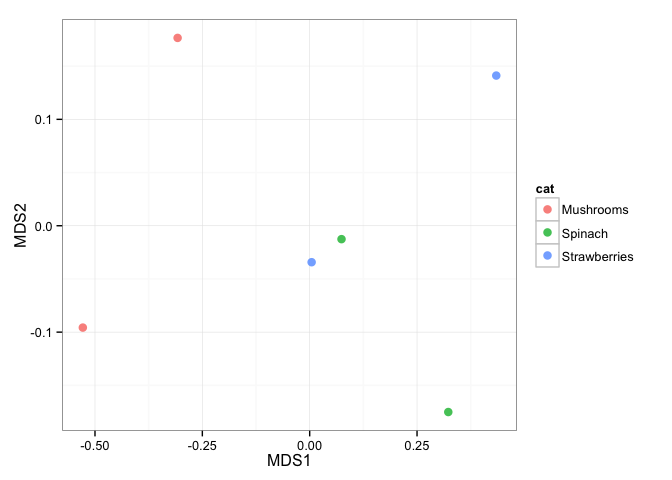
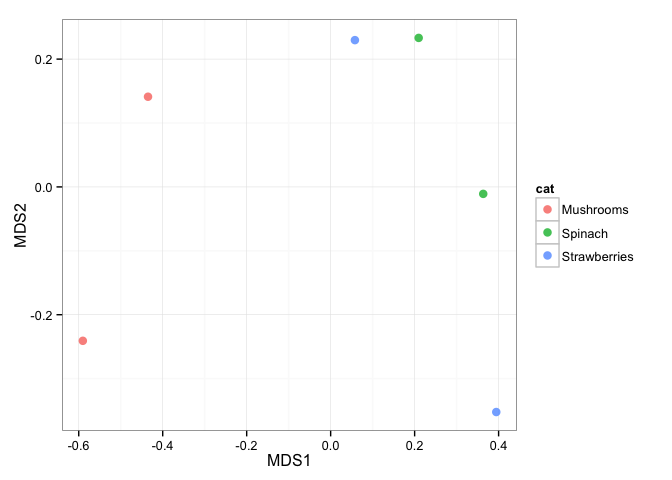
minor fixes

diff --git a/mctoolsr_examples.md b/mctoolsr_examples.md
@@ -12,11 +12,9 @@ To use:
 
 1. [Install git](https://git-scm.com/book/en/v2/Getting-Started-Installing-Git) if you haven't already
 2. Open a terminal window and clone **mctoolsr** in a directory where you keep software on your machine
-
 ```
 git clone https://github.com/leffj/mctoolsr.git
 ```
-
 3. When using **mctoolsr** in an R script, source the "routine_analysis_functions.R" file in the mctoolsr/R directory. For example, I include the following line at the top of all my R scripts using **mctoolsr**:
 
 
@@ -35,7 +33,7 @@ git pull
 
 ### Examples
 
-Note that the following examples use an example dataset taken from a study examining the bacterial communities associated with fruits and vegetables ([Leff et al. 2013][ref1]). You can find this dataset in the mctoolsr/examples directory.
+Note that the following examples use an example dataset taken from a study examining the bacterial communities associated with fruits and vegetables ([Leff et al. 2013][ref1]). You can find this dataset in the mctoolsr/examples directory.    
 
 
 #### Loading OTU tables and metadata
@@ -78,13 +76,13 @@ sort(colSums(input$data_loaded))
 ```
 
 ```
-## ProA37 ProB70 ProC66 ProB39 ProC40 ProB57 ProA12 ProC38 ProA58 ProB34
-##   1009   1011   1068   1152   1179   1192   1199   1211   1216   1265
-## ProC36 ProA65  ProB9 ProB60 ProC65 ProB35 ProB10 ProB67 ProA66 ProB36
-##   1313   1367   1371   1395   1409   1492   1599   1611   1614   1642
-## ProB71 ProB40 ProA36 ProB58 ProB33 ProA16 ProA35 ProA33 ProB12 ProA13
-##   1745   1771   1802   1860   2257   2312   2530   2585   2642   2819
-## ProA34 ProA15 ProA14
+## ProA37 ProB70 ProC66 ProB39 ProC40 ProB57 ProA12 ProC38 ProA58 ProB34 
+##   1009   1011   1068   1152   1179   1192   1199   1211   1216   1265 
+## ProC36 ProA65  ProB9 ProB60 ProC65 ProB35 ProB10 ProB67 ProA66 ProB36 
+##   1313   1367   1371   1395   1409   1492   1599   1611   1614   1642 
+## ProB71 ProB40 ProA36 ProB58 ProB33 ProA16 ProA35 ProA33 ProB12 ProA13 
+##   1745   1771   1802   1860   2257   2312   2530   2585   2642   2819 
+## ProA34 ProA15 ProA14 
 ##   2982   3291   3390
 ```
 
@@ -110,13 +108,13 @@ colSums(input_rar$data_loaded)
 ```
 
 ```
-## ProA12 ProA13 ProA14 ProA15 ProA16 ProA33 ProA34 ProA35 ProA36 ProA37
-##   1000   1000   1000   1000   1000   1000   1000   1000   1000   1000
-## ProA58 ProA65 ProA66 ProB10 ProB12 ProB33 ProB34 ProB35 ProB36 ProB39
-##   1000   1000   1000   1000   1000   1000   1000   1000   1000   1000
-## ProB40 ProB57 ProB58 ProB60 ProB67 ProB70 ProB71  ProB9 ProC36 ProC38
-##   1000   1000   1000   1000   1000   1000   1000   1000   1000   1000
-## ProC40 ProC65 ProC66
+## ProA12 ProA13 ProA14 ProA15 ProA16 ProA33 ProA34 ProA35 ProA36 ProA37 
+##   1000   1000   1000   1000   1000   1000   1000   1000   1000   1000 
+## ProA58 ProA65 ProA66 ProB10 ProB12 ProB33 ProB34 ProB35 ProB36 ProB39 
+##   1000   1000   1000   1000   1000   1000   1000   1000   1000   1000 
+## ProB40 ProB57 ProB58 ProB60 ProB67 ProB70 ProB71  ProB9 ProC36 ProC38 
+##   1000   1000   1000   1000   1000   1000   1000   1000   1000   1000 
+## ProC40 ProC65 ProC66 
 ##   1000   1000   1000
 ```
 
@@ -133,11 +131,11 @@ tax_sum_phyla[1:5, 1:8]
 
 ```
 ##                    ProA12 ProA13 ProA14 ProA15 ProA16 ProA33 ProA34 ProA35
-## p__[Thermi]         0.001   0.00  0.000  0.000  0.000  0.000  0.003  0.000
-## p__Acidobacteria    0.001   0.00  0.000  0.000  0.000  0.000  0.000  0.000
-## p__Actinobacteria   0.393   0.01  0.001  0.022  0.004  0.043  0.069  0.084
-## p__Armatimonadetes  0.000   0.00  0.000  0.003  0.000  0.000  0.000  0.000
-## p__Bacteroidetes    0.101   0.54  0.791  0.373  0.561  0.001  0.004  0.003
+## p__                 0.001  0.000  0.000  0.000  0.000  0.000  0.000   0.00
+## p__[Thermi]         0.001  0.000  0.000  0.000  0.000  0.000  0.001   0.00
+## p__Acidobacteria    0.000  0.000  0.000  0.000  0.000  0.000  0.000   0.00
+## p__Actinobacteria   0.393  0.009  0.002  0.015  0.004  0.054  0.065   0.09
+## p__Armatimonadetes  0.000  0.001  0.000  0.002  0.000  0.000  0.000   0.00
 ```
 
 
@@ -161,16 +159,29 @@ ord = calc_ordination(dm, 'nmds')
 ```
 
 ```
-## Run 0 stress 0.1159931
-## Run 1 stress 0.1474144
-## Run 2 stress 0.1508057
-## Run 3 stress 0.1406924
-## Run 4 stress 0.1397225
-## Run 5 stress 0.1163211
-## ... procrustes: rmse 0.008059515  max resid 0.03369261
-## Run 6 stress 0.115993
+## Run 0 stress 0.1183648 
+## Run 1 stress 0.1352601 
+## Run 2 stress 0.135261 
+## Run 3 stress 0.1393264 
+## Run 4 stress 0.1175868 
 ## ... New best solution
-## ... procrustes: rmse 0.0008747218  max resid 0.002771651
+## ... procrustes: rmse 0.007392492  max resid 0.03548635 
+## Run 5 stress 0.1422979 
+## Run 6 stress 0.1429678 
+## Run 7 stress 0.1183655 
+## Run 8 stress 0.1352602 
+## Run 9 stress 0.1578775 
+## Run 10 stress 0.1183647 
+## Run 11 stress 0.1393131 
+## Run 12 stress 0.139345 
+## Run 13 stress 0.1393148 
+## Run 14 stress 0.1603108 
+## Run 15 stress 0.1352605 
+## Run 16 stress 0.1480635 
+## Run 17 stress 0.139313 
+## Run 18 stress 0.1175852 
+## ... New best solution
+## ... procrustes: rmse 0.0004197089  max resid 0.00187101 
 ## *** Solution reached
 ```
 
@@ -181,23 +192,23 @@ plot_ordination(input_rar, ord, 'Sample_type', 'Farm_type', hulls = TRUE)
 ```
 ## Loading required package: ggplot2
 ## Loading required package: dplyr
-##
+## 
 ## Attaching package: 'dplyr'
-##
+## 
 ## The following object is masked from 'package:nlme':
-##
+## 
 ##     collapse
-##
+## 
 ## The following objects are masked from 'package:stats':
-##
+## 
 ##     filter, lag
-##
+## 
 ## The following objects are masked from 'package:base':
-##
+## 
 ##     intersect, setdiff, setequal, union
 ```
 
-![](mctoolsr_examples_files/figure-html/unnamed-chunk-7-1.png)
+![](mctoolsr_examples_files/figure-html/unnamed-chunk-7-1.png) 
 
 
 #### Filtering samples
@@ -212,12 +223,9 @@ ord = calc_ordination(dm, 'nmds')
 ```
 
 ```
-## Run 0 stress 0.105623
-## Run 1 stress 0.1208362
-## Run 2 stress 0.1162376
-## Run 3 stress 0.1208382
-## Run 4 stress 0.1056235
-## ... procrustes: rmse 0.0001751751  max resid 0.0007131892
+## Run 0 stress 0.107572 
+## Run 1 stress 0.1075731 
+## ... procrustes: rmse 0.0003387407  max resid 0.001378387 
 ## *** Solution reached
 ```
 
@@ -225,7 +233,7 @@ ord = calc_ordination(dm, 'nmds')
 plot_ordination(input_rar_filt, ord, 'Sample_type', 'Farm_type', hulls = TRUE)
 ```
 
-![](mctoolsr_examples_files/figure-html/unnamed-chunk-8-1.png)
+![](mctoolsr_examples_files/figure-html/unnamed-chunk-8-1.png) 
 
 
 #### Filtering taxa
@@ -239,45 +247,30 @@ sort(colSums(input_proteobact$data_loaded))
 ```
 
 ```
-## ProC38 ProC40 ProA14 ProA12 ProA58 ProA16 ProB70 ProB10  ProB9 ProA37
-##    219    231    435    459    614    780    843    889    940    980
-## ProB12 ProC66 ProC36 ProB57 ProA13 ProA36 ProB39 ProB34 ProB60 ProA65
-##   1019   1032   1051   1063   1080   1082   1082   1196   1196   1261
-## ProA35 ProC65 ProB71 ProA34 ProB67 ProA66 ProB35 ProB58 ProB36 ProA15
-##   1336   1369   1376   1406   1422   1436   1472   1544   1594   1601
-## ProB40 ProA33 ProB33
+## ProC38 ProC40 ProA14 ProA12 ProA58 ProA16 ProB70 ProB10  ProB9 ProA37 
+##    219    231    435    459    614    780    843    889    940    980 
+## ProB12 ProC66 ProC36 ProB57 ProA13 ProA36 ProB39 ProB34 ProB60 ProA65 
+##   1019   1032   1051   1063   1080   1082   1082   1196   1196   1261 
+## ProA35 ProC65 ProB71 ProA34 ProB67 ProA66 ProB35 ProB58 ProB36 ProA15 
+##   1336   1369   1376   1406   1422   1436   1472   1544   1594   1601 
+## ProB40 ProA33 ProB33 
 ##   1748   1768   2126
 ```
 
 ```r
 input_proteobact_rar = single_rarefy(input_proteobact, 219)
-plot_nmds(calc_dm(input_proteobact_rar$data_loaded), map = input_proteobact_rar$map_loaded,
+plot_nmds(calc_dm(input_proteobact_rar$data_loaded), map = input_proteobact_rar$map_loaded, 
           color_cat = 'Sample_type')
 ```
 
 ```
-## Run 0 stress 0.1385604
-## Run 1 stress 0.1380562
-## ... New best solution
-## ... procrustes: rmse 0.02525963  max resid 0.07598758
-## Run 2 stress 0.1310933
-## ... New best solution
-## ... procrustes: rmse 0.1201485  max resid 0.3213906
-## Run 3 stress 0.1310825
-## ... New best solution
-## ... procrustes: rmse 0.00396523  max resid 0.01213657
-## Run 4 stress 0.1381934
-## Run 5 stress 0.1330629
-## Run 6 stress 0.1572366
-## Run 7 stress 0.1599173
-## Run 8 stress 0.138057
-## Run 9 stress 0.1310787
-## ... New best solution
-## ... procrustes: rmse 0.002382359  max resid 0.007671527
+## Run 0 stress 0.1332955 
+## Run 1 stress 0.1332985 
+## ... procrustes: rmse 0.002017512  max resid 0.006033334 
 ## *** Solution reached
 ```
 
-![](mctoolsr_examples_files/figure-html/unnamed-chunk-9-1.png)
+![](mctoolsr_examples_files/figure-html/unnamed-chunk-9-1.png) 
 
 
 #### Taxa based exploration
@@ -287,30 +280,30 @@ It is often useful to determine the taxa driving differences between the communi
 
 ```r
 tax_sum_families = summarize_taxonomy(input_rar_filt, level = 5, report_higher_tax = FALSE)
-taxa_summary_by_sample_type(tax_sum_families, input_rar_filt$map_loaded,
+taxa_summary_by_sample_type(tax_sum_families, input_rar_filt$map_loaded, 
                             factor = 'Sample_type', filter_level = 0.05, test_type = 'KW')
 ```
 
 ```
 ##                               pvals     pvalsBon     pvalsFDR Mushrooms
-## f__Pseudomonadaceae    1.268000e-05 8.876001e-05 8.876001e-05  0.144500
-## f__Sphingobacteriaceae 6.081568e-05 4.257098e-04 2.128549e-04  0.283000
-## f__[Weeksellaceae]     1.222236e-04 8.555655e-04 2.851885e-04  0.107750
-## f__Enterobacteriaceae  5.734819e-04 4.014373e-03 1.003593e-03  0.032750
-## unclassified           3.890262e-03 2.723183e-02 5.446366e-03  0.076875
-## f__Bacillaceae         3.050348e-02 2.135244e-01 3.558740e-02  0.002875
-## f__Sphingomonadaceae   5.464613e-02 3.825229e-01 5.464613e-02  0.008625
+## f__Pseudomonadaceae    1.198875e-05 8.392123e-05 8.392123e-05  0.145000
+## f__Sphingobacteriaceae 6.616449e-05 4.631514e-04 2.315757e-04  0.284250
+## f__[Weeksellaceae]     2.026263e-04 1.418384e-03 4.727947e-04  0.105375
+## f__Enterobacteriaceae  5.745371e-04 4.021760e-03 1.005440e-03  0.034125
+## unclassified           1.155189e-03 8.086326e-03 1.617265e-03  0.075625
+## f__Bacillaceae         1.026682e-02 7.186773e-02 1.197796e-02  0.003250
+## f__Sphingomonadaceae   2.122552e-02 1.485786e-01 2.122552e-02  0.007000
 ##                             Spinach Strawberries
-## f__Pseudomonadaceae    0.0670000000 0.0011428571
-## f__Sphingobacteriaceae 0.0028571429 0.0007142857
-## f__[Weeksellaceae]     0.0022857143 0.0014285714
-## f__Enterobacteriaceae  0.7314285714 0.5745000000
-## unclassified           0.0280000000 0.0227857143
-## f__Bacillaceae         0.0055714286 0.2032142857
-## f__Sphingomonadaceae   0.0008571429 0.0582142857
+## f__Pseudomonadaceae    0.0650000000 0.0013571429
+## f__Sphingobacteriaceae 0.0028571429 0.0007857143
+## f__[Weeksellaceae]     0.0018571429 0.0017857143
+## f__Enterobacteriaceae  0.7282857143 0.5772857143
+## unclassified           0.0298571429 0.0214285714
+## f__Bacillaceae         0.0051428571 0.2053571429
+## f__Sphingomonadaceae   0.0005714286 0.0590000000
 ```
 
-This analysis demonstrates that Pseudomonadaceae and Sphingobacteriaceae tend to have higher relative abundances on mushrooms than spinach and strawberries. The p values are based on Kruskal-Wallis tests and two different corrections are reported to deal with the multiple comparisons (Bonferroni and FDR). Rare taxa are filtered out using the `filter_level` peramter. The values indicated under the sample types are mean relative abundances.
+This analysis demonstrates that Pseudomonadaceae and Sphingobacteriaceae tend to have higher relative abundances on mushrooms than spinach and strawberries. The p values are based on Kruskal-Wallis tests and two different corrections are reported to deal with the multiple comparisons (Bonferroni and FDR). Rare taxa are filtered out using the `filter_level` peramter. The values indicated under the sample types are mean relative abundances.    
 
 
 #### Calculating mean dissimilarities
@@ -320,50 +313,48 @@ Sometimes it is necessary to calculate mean dissimilarities. This is important i
 
 ```r
 dm = calc_dm(input_rar_filt$data_loaded)
-dm_aggregated = calc_mean_dissimilarities(dm, input_rar_filt$map_loaded,
+dm_aggregated = calc_mean_dissimilarities(dm, input_rar_filt$map_loaded, 
                                           'Sample_Farming', return_map = TRUE)
 ord = calc_ordination(dm_aggregated$dm, ord_type = 'nmds')
 ```
 
 ```
-## Run 0 stress 9.92867e-05
-## Run 1 stress 6.228608e-05
-## ... New best solution
-## ... procrustes: rmse 0.230373  max resid 0.3736116
-## Run 2 stress 0
-## ... New best solution
-## ... procrustes: rmse 0.13297  max resid 0.1938316
-## Run 3 stress 5.605032e-05
-## ... procrustes: rmse 0.1776609  max resid 0.2286363
-## Run 4 stress 0
-## ... procrustes: rmse 0.2039819  max resid 0.3474579
-## Run 5 stress 9.14741e-05
-## ... procrustes: rmse 0.181997  max resid 0.2796375
-## Run 6 stress 0
-## ... procrustes: rmse 0.07394844  max resid 0.1257027
-## Run 7 stress 9.51546e-05
-## ... procrustes: rmse 0.1724328  max resid 0.2687377
-## Run 8 stress 0.1842126
-## Run 9 stress 9.146607e-05
-## ... procrustes: rmse 0.2395799  max resid 0.3913539
-## Run 10 stress 0
-## ... procrustes: rmse 0.09409697  max resid 0.141056
-## Run 11 stress 9.53672e-05
-## ... procrustes: rmse 0.2423281  max resid 0.3992875
-## Run 12 stress 1.539381e-05
-## ... procrustes: rmse 0.04129791  max resid 0.06645215
-## Run 13 stress 0.1842127
-## Run 14 stress 0.1842128
-## Run 15 stress 0
-## ... procrustes: rmse 0.2125599  max resid 0.359277
-## Run 16 stress 0.1842126
-## Run 17 stress 0
-## ... procrustes: rmse 0.2291802  max resid 0.3746412
-## Run 18 stress 0.001442652
-## Run 19 stress 9.317751e-05
-## ... procrustes: rmse 0.235963  max resid 0.3816467
-## Run 20 stress 0
-## ... procrustes: rmse 0.2206821  max resid 0.3617279
+## Run 0 stress 0 
+## Run 1 stress 3.859222e-05 
+## ... procrustes: rmse 0.02241198  max resid 0.03568743 
+## Run 2 stress 9.623603e-05 
+## ... procrustes: rmse 0.2027224  max resid 0.3197992 
+## Run 3 stress 0 
+## ... procrustes: rmse 0.1494029  max resid 0.269001 
+## Run 4 stress 0.2673072 
+## Run 5 stress 8.416692e-05 
+## ... procrustes: rmse 0.1762522  max resid 0.3520161 
+## Run 6 stress 0.1842126 
+## Run 7 stress 0.1620205 
+## Run 8 stress 9.119926e-05 
+## ... procrustes: rmse 0.1426984  max resid 0.2484093 
+## Run 9 stress 0 
+## ... procrustes: rmse 0.2555662  max resid 0.4050245 
+## Run 10 stress 0.1842128 
+## Run 11 stress 0.1620205 
+## Run 12 stress 0 
+## ... procrustes: rmse 0.2423221  max resid 0.3354239 
+## Run 13 stress 8.771436e-05 
+## ... procrustes: rmse 0.03299527  max resid 0.05253547 
+## Run 14 stress 8.425028e-05 
+## ... procrustes: rmse 0.02397099  max resid 0.03850966 
+## Run 15 stress 9.863531e-05 
+## ... procrustes: rmse 0.2073089  max resid 0.3663496 
+## Run 16 stress 0 
+## ... procrustes: rmse 0.234772  max resid 0.4044379 
+## Run 17 stress 8.317937e-05 
+## ... procrustes: rmse 0.1972415  max resid 0.3493648 
+## Run 18 stress 6.813405e-05 
+## ... procrustes: rmse 0.2063974  max resid 0.3594988 
+## Run 19 stress 7.914019e-05 
+## ... procrustes: rmse 0.01829748  max resid 0.02450076 
+## Run 20 stress 0 
+## ... procrustes: rmse 0.2107955  max resid 0.3740332
 ```
 
 ```
@@ -375,7 +366,7 @@ ord = calc_ordination(dm_aggregated$dm, ord_type = 'nmds')
 plot_ordination(dm_aggregated, ord, color_cat = 'Sample_type')
 ```
 
-![](mctoolsr_examples_files/figure-html/unnamed-chunk-11-1.png)
+![](mctoolsr_examples_files/figure-html/unnamed-chunk-11-1.png) 
 
 
 #### Exporting an OTU table
@@ -390,3 +381,6 @@ export_otu_table(input_rar_filt, "export/path/otu_table_export.txt")
 
 
 [ref1]: http://journals.plos.org/plosone/article?id=10.1371/journal.pone.0059310
+
+
+
